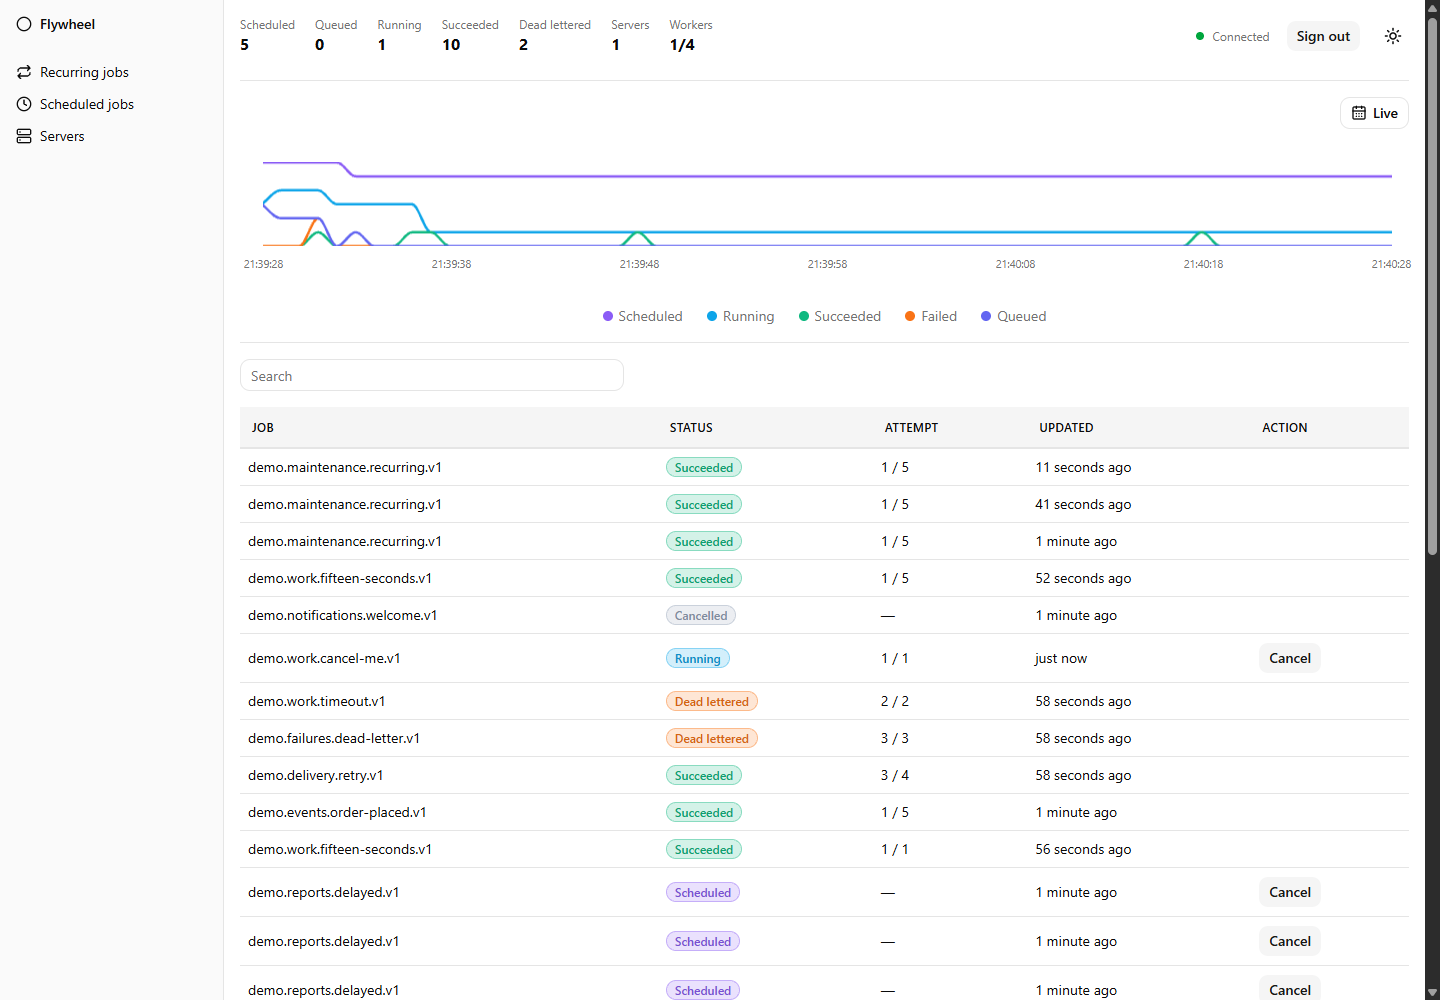
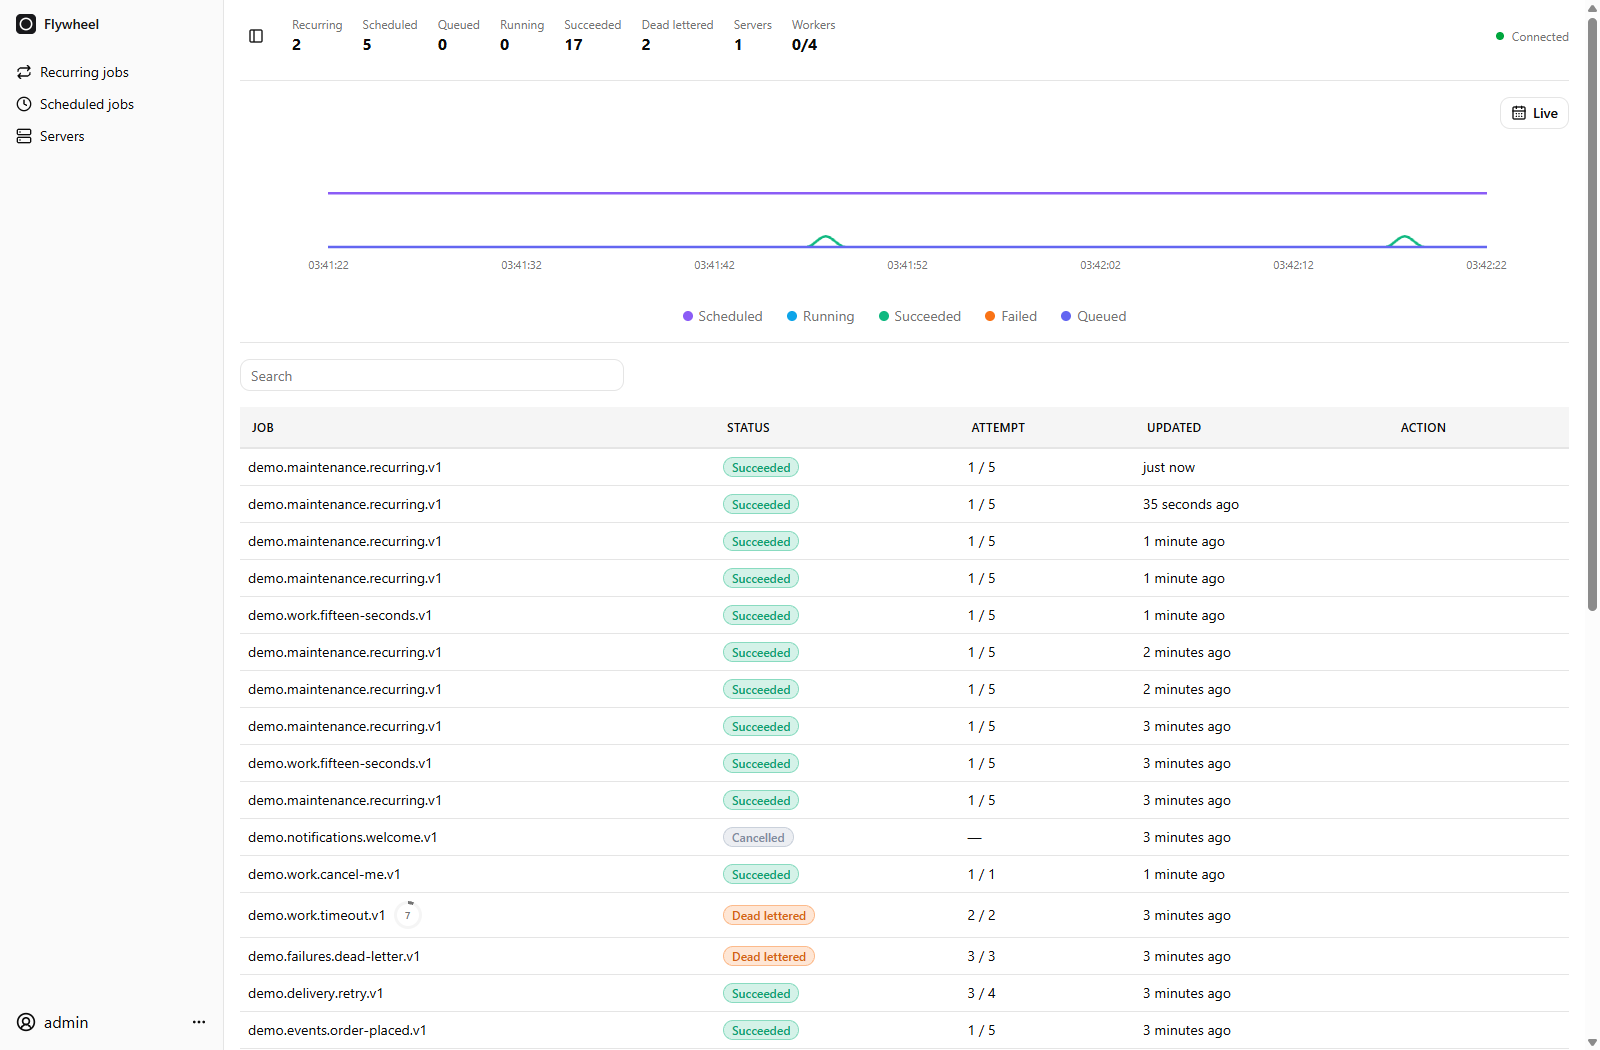
Follow the system theme across Flywheel and its public website

diff --git a/src/Soenneker.Flywheel.Website/wwwroot/css/site.css b/src/Soenneker.Flywheel.Website/wwwroot/css/site.css
@@ -5,6 +5,23 @@
     --line: #e4e4e7;
     --paper: #ffffff;
     --accent: #52525b;
+    --surface: #fafafa;
+    --hover: #f4f4f5;
+    --body-text: #52525b;
+    --button-hover: #3f3f46;
+}
+
+:root.dark {
+    color-scheme: dark;
+    --ink: #fafafa;
+    --muted: #a1a1aa;
+    --line: #3f3f46;
+    --paper: #18181b;
+    --accent: #d4d4d8;
+    --surface: #202023;
+    --hover: #27272a;
+    --body-text: #d4d4d8;
+    --button-hover: #d4d4d8;
 }
 
 * { box-sizing: border-box; }
@@ -18,14 +35,14 @@ img { max-width: 100%; }
 figure { margin: 0; }
 main h2 { border: 0; padding-bottom: 0; }
 .site { max-width: 1248px; padding: 0 48px; margin: 0 auto; }
-.skip-link { position: absolute; top: -80px; left: 20px; background: white; padding: 12px; border: 1px solid var(--line); z-index: 10; }
+.skip-link { position: absolute; top: -80px; left: 20px; background: var(--paper); padding: 12px; border: 1px solid var(--line); z-index: 10; }
 .skip-link:focus { top: 12px; }
 .site-header { height: 92px; display: flex; align-items: center; justify-content: space-between; gap: 24px; border-bottom: 1px solid var(--line); }
 .brand { display: inline-flex; align-items: center; gap: 10px; font-size: 21px; font-weight: 650; letter-spacing: -.7px; }
 .site-header nav, .site-footer nav { display: flex; gap: 28px; align-items: center; font-size: 13px; font-weight: 500; }
 .site-header nav a, .site-footer nav a, .text-link { display: inline-flex; align-items: center; gap: 7px; }
 .site-header .nav-cta { padding: 9px 14px; border: 1px solid var(--line); border-radius: 6px; }
-.site-header .nav-cta:hover { background: #f4f4f5; border-color: #d4d4d8; }
+.site-header .nav-cta:hover { background: var(--hover); border-color: var(--line); }
 .site-header a:hover, .site-footer a:hover, .text-link:hover { color: var(--accent); }
 .text-link { font-size: 13px; font-weight: 550; }
 .text-link:hover { text-decoration: underline; text-underline-offset: 5px; }
@@ -34,17 +51,17 @@ main h2 { border: 0; padding-bottom: 0; }
 .status-dot { display: inline-block; width: 6px; height: 6px; flex-shrink: 0; background: var(--accent); border-radius: 50%; }
 .hero-grid { display: grid; grid-template-columns: 1.65fr 1fr; gap: 48px; align-items: end; margin-top: 22px; }
 .hero h1 { font-size: clamp(42px, 4.5vw, 60px); line-height: 1.12; letter-spacing: -2.8px; font-weight: 550; margin: 0; }
-.hero h1 span { color: #71717a; }
+.hero h1 span { color: var(--muted); }
 .hero-description { font-size: 16px; line-height: 1.7; color: var(--muted); margin: 0; max-width: 360px; }
 .hero-actions { display: flex; align-items: center; gap: 22px; margin-top: 24px; }
-.hero-actions > [data-slot="button"], .getting-started [data-slot="button"] { background: var(--ink); color: #fff; border-radius: 6px; min-height: 44px; font-size: 13px; padding: 0 18px; }
-.hero-actions > [data-slot="button"]:hover, .getting-started [data-slot="button"]:hover { background: #3f3f46; }
+.hero-actions > [data-slot="button"], .getting-started [data-slot="button"] { background: var(--ink); color: var(--paper); border-radius: 6px; min-height: 44px; font-size: 13px; padding: 0 18px; }
+.hero-actions > [data-slot="button"]:hover, .getting-started [data-slot="button"]:hover { background: var(--button-hover); }
 .hero .hero-meta { color: var(--muted); font-size: 11px; margin: 16px 0 0; }
 .hero-meta span { padding: 0 6px; }
-.preview-bar { display: flex; justify-content: space-between; align-items: center; gap: 20px; border: 1px solid var(--line); border-bottom: 0; border-radius: 9px 9px 0 0; padding: 14px 19px; background: #ffffff; font-size: 12px; }
+.preview-bar { display: flex; justify-content: space-between; align-items: center; gap: 20px; border: 1px solid var(--line); border-bottom: 0; border-radius: 9px 9px 0 0; padding: 14px 19px; background: var(--paper); font-size: 12px; }
 .preview-bar > span { display: flex; align-items: center; gap: 9px; font-weight: 500; }
 .preview-bar .text-link { font-size: 12px; }
-.screenshot-frame { overflow: hidden; border: 1px solid var(--line); border-radius: 8px; background: #fff; box-shadow: 0 10px 30px #18181b05; }
+.screenshot-frame { overflow: hidden; border: 1px solid var(--line); border-radius: 8px; background: var(--paper); box-shadow: 0 10px 30px #18181b05; }
 .dashboard-section .screenshot-frame { border-radius: 0 0 8px 8px; }
 .screenshot-frame a, .screenshot-frame img { display: block; width: 100%; height: auto; }
 .screenshot-frame a:hover { opacity: .92; }
@@ -72,12 +89,12 @@ main h2 { border: 0; padding-bottom: 0; }
 .getting-started p { font-size: 15px; color: var(--muted); margin: 22px 0 26px; }
 .getting-started .requirements { font-size: 11px; margin: 14px 0 0; }
 .getting-started .retry-note { font-size: 12px; margin: 30px 0 0; }
-.code-panel { min-width: 0; border: 1px solid #e4e4e7; border-radius: 8px; overflow: hidden; background: #ffffff; color: #18181b; }
+.code-panel { min-width: 0; border: 1px solid #e4e4e7; border-radius: 8px; overflow: hidden; background: var(--paper); color: #18181b; }
 .code-header { display: flex; justify-content: space-between; gap: 12px; padding: 13px 22px; border-bottom: 1px solid #e4e4e7; font-size: 10px; color: #71717a; }
 .code-header:not(:first-child) { border-top: 1px solid #e4e4e7; }
 pre { font-family: ui-monospace, SFMono-Regular, Consolas, monospace; font-size: 12px; line-height: 1.9; margin: 0; padding: 22px; overflow-x: auto; }
 pre code { font-family: inherit; }
-.string { color: #52525b; }
+.string { color: var(--body-text); }
 .code-footer { padding: 14px 22px; border-top: 1px solid #e4e4e7; }
 .code-footer .text-link { font-size: 11px; color: #18181b; }
 .code-footer .text-link:hover { color: white; }
@@ -94,9 +111,9 @@ pre code { font-family: inherit; }
 .docs a:hover { color: var(--accent); }
 .docs h1 { font-size: 46px; line-height: 1.15; font-weight: 550; letter-spacing: -1.8px; margin: 0 0 22px; }
 .docs h2 { font-size: 24px; font-weight: 550; letter-spacing: -.6px; margin: 44px 0 14px; }
-.docs p, .docs li { color: #52525b; font-size: 15px; line-height: 1.8; }
+.docs p, .docs li { color: var(--body-text); font-size: 15px; line-height: 1.8; }
 .docs li { margin: 8px 0; }
-.docs pre { background: #fafafa; border: 1px solid var(--line); border-radius: 7px; margin: 20px 0; font-size: 12px; }
+.docs pre { background: var(--surface); border: 1px solid var(--line); border-radius: 7px; margin: 20px 0; font-size: 12px; }
 .docs table { width: 100%; border-collapse: collapse; font-size: 13px; }
 .docs th, .docs td { text-align: left; padding: 12px; border-bottom: 1px solid var(--line); }
 .docs code { overflow-wrap: anywhere; }
@@ -156,19 +173,19 @@ pre code { font-family: inherit; }
 @media (prefers-reduced-motion: reduce) { html { scroll-behavior: auto; } a, button { transition: none; } }
 
 /* Guide navigation uses a single selected surface, without link underlines. */
-.docs-nav { width: fit-content; max-width: 100%; gap: 4px; padding: 4px; border: 1px solid var(--line); border-radius: 8px; background: #fafafa; }
+.docs-nav { width: fit-content; max-width: 100%; gap: 4px; padding: 4px; border: 1px solid var(--line); border-radius: 8px; background: var(--surface); }
 .docs .docs-nav a:not([data-slot="button"]) { padding: 8px 14px; border: 0; border-radius: 5px; text-decoration: none; line-height: 1.5; }
-.docs .docs-nav a[aria-current="page"] { background: white; color: var(--ink); box-shadow: 0 1px 3px #18181b12; }
-.docs .docs-nav a:hover { color: var(--ink); background: #f4f4f5; }
-.docs .docs-nav a[aria-current="page"]:hover { background: white; }
-.code-example { position: relative; min-width: 0; background: #fff; color: var(--ink); }
+.docs .docs-nav a[aria-current="page"] { background: var(--paper); color: var(--ink); box-shadow: 0 1px 3px #18181b12; }
+.docs .docs-nav a:hover { color: var(--ink); background: var(--hover); }
+.docs .docs-nav a[aria-current="page"]:hover { background: var(--paper); }
+.code-example { position: relative; min-width: 0; background: var(--paper); color: var(--ink); }
 .code-example [hidden] { display: none !important; }
-.code-example .code-fallback { margin: 0; border: 0; border-radius: 0; background: #fff; color: var(--ink); font-size: 12px; line-height: 21px; padding: 12px 16px; }
-.code-example .copy-status { position: absolute; right: 44px; top: 8px; padding: 0 6px; background: #fff; color: var(--muted); font-size: 11px; }
+.code-example .code-fallback { margin: 0; border: 0; border-radius: 0; background: var(--paper); color: var(--ink); font-size: 12px; line-height: 21px; padding: 12px 16px; }
+.code-example .copy-status { position: absolute; right: 44px; top: 8px; padding: 0 6px; background: var(--paper); color: var(--muted); font-size: 11px; }
 .code-example .monaco-editor { outline-offset: -2px; }
 .docs .code-example { border: 1px solid var(--line); border-radius: 7px; margin: 20px 0; overflow: hidden; }
-.code-panel { background: white; color: var(--ink); border-color: var(--line); }
-.code-header, .code-header:not(:first-child), .code-footer { border-color: var(--line); background: #fafafa; color: var(--muted); }
+.code-panel { background: var(--paper); color: var(--ink); border-color: var(--line); }
+.code-header, .code-header:not(:first-child), .code-footer { border-color: var(--line); background: var(--surface); color: var(--muted); }
 .code-footer .text-link { color: var(--ink); }
 .code-footer .text-link:hover { color: var(--accent); }
 .examples-section { border-top: 1px solid var(--line); padding: 64px 0 76px; }

diff --git a/src/Soenneker.Flywheel.Website/wwwroot/js/code-examples.js b/src/Soenneker.Flywheel.Website/wwwroot/js/code-examples.js
@@ -2,6 +2,16 @@
 // Quark CodeEditor through the same interop module used by the component.
 const examples = document.querySelectorAll('.code-example');
 let interopPromise;
+window.addEventListener('quark-theme-changed', async event => {
+    if (interopPromise) {
+        try {
+            const interop = await interopPromise;
+            await interop.setTheme(event.detail.isDark ? 'vs-dark' : 'quarkLight');
+        } catch (error) {
+            console.error('Unable to update code example theme.', error);
+        }
+    }
+});
 
 function loadInterop() {
     return interopPromise ??= (async () => {
@@ -36,7 +46,7 @@ async function initialize(example) {
             value: text,
             language: example.dataset.language,
             ariaLabel: example.dataset.label,
-            theme: 'quarkLight',
+            theme: document.documentElement.classList.contains('dark') ? 'vs-dark' : 'quarkLight',
             readOnly: true,
             domReadOnly: true,
             minimap: { enabled: false },

diff --git a/test/Soenneker.Flywheel.Dashboard.Demo/wwwroot/index.html b/test/Soenneker.Flywheel.Dashboard.Demo/wwwroot/index.html
@@ -7,6 +7,19 @@
     <title>Flywheel</title>
     <base href="/" />
 
+    <script>
+        (() => {
+            let preference;
+            try { preference = localStorage.getItem("quark-theme"); } catch { }
+            const dark = preference === "dark" || (preference !== "light" && matchMedia("(prefers-color-scheme: dark)").matches);
+            document.documentElement.classList.toggle("dark", dark);
+            document.documentElement.style.colorScheme = dark ? "dark" : "light";
+        })();
+    </script>
+    <script type="module">
+        import { initialize } from "./_content/Soenneker.Quark.Suite/js/themeinterop.js";
+        initialize();
+    </script>
     <link href="css/quark-tailwind.min.css" rel="stylesheet" />
     <link href="css/app.css" rel="stylesheet" />
 </head>

diff --git a/src/Soenneker.Flywheel.Website/wwwroot/js/theme-images.js b/src/Soenneker.Flywheel.Website/wwwroot/js/theme-images.js
@@ -1,0 +1,14 @@
+// Static exports have no Blazor runtime. Respect the resolved preference as well
+// as OS changes, and keep the full-size link paired with the visible image.
+function updateImages() {
+    const dark = document.documentElement.classList.contains('dark');
+    document.querySelectorAll('[data-theme-image-dark]').forEach(source => {
+        source.media = dark ? 'all' : 'not all';
+    });
+    document.querySelectorAll('[data-theme-image-link]').forEach(link => {
+        link.href = dark ? link.dataset.darkSrc : link.dataset.lightSrc;
+    });
+}
+
+window.addEventListener('quark-theme-changed', updateImages);
+updateImages();

diff --git a/README.md b/README.md
@@ -8,7 +8,12 @@
 
 Background jobs for .NET with Redis, in-process memory, or filesystem storage, source-generated job registration, and an optional live Blazor dashboard.
 
-[![Flywheel dashboard with live activity, job states, and searchable executions](docs/images/dashboard.png)](https://flywheel.soenneker.com)
+<a href="https://flywheel.soenneker.com">
+  <picture>
+    <source media="(prefers-color-scheme: dark)" srcset="docs/images/dashboard-dark.png" />
+    <img src="docs/images/dashboard.png" alt="Flywheel dashboard with live activity, job states, and searchable executions" />
+  </picture>
+</a>
 
 *Dashboard shown with illustrative demo data.*
 
@@ -53,3 +58,19 @@ Open https://localhost:7039/ and sign in with `admin` / `flywheel-demo` in Devel
 - [Filesystem storage](docs/filesystem.md)
 - [Job registration generators](docs/generators.md)
 - [Dashboard and authentication](docs/dashboard.md)
+
+## Theme
+
+The dashboard follows the OS light/dark preference until a user toggles the theme. The account menu's **Use system theme** action clears that override. Theme initialization also runs on sign-in, even when no theme toggle is visible. Hosts can apply the theme before Blazor starts by loading Quark's theme initializer in the document head (see the dashboard demo's `wwwroot/index.html`).
+
+Blazor components can inject `Soenneker.Quark.IThemeInterop`, call `Initialize()` after the first interactive render, read `IsDark`, and subscribe to `ThemeChanged` to select light/dark images. Render from event handlers through `InvokeAsync` and unsubscribe on disposal. `UseSystem()` restores OS tracking.
+
+### Coordinated Quark development
+
+The dashboard and website use Quark 4.0.1411 or later for the reactive theme API. To develop coordinated changes against a sibling Quark checkout:
+
+```powershell
+dotnet build test/Soenneker.Flywheel.Dashboard.Demo -p:UseLocalQuarkProject=true
+```
+
+`LocalQuarkProject` can override the default sibling project path. Normal builds use the published Quark package.
